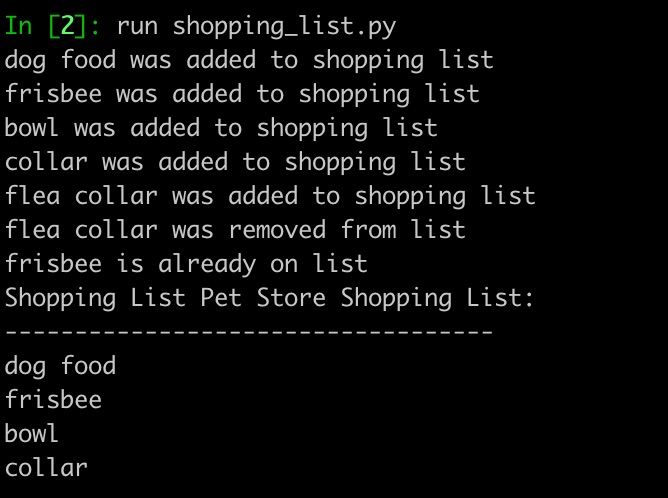
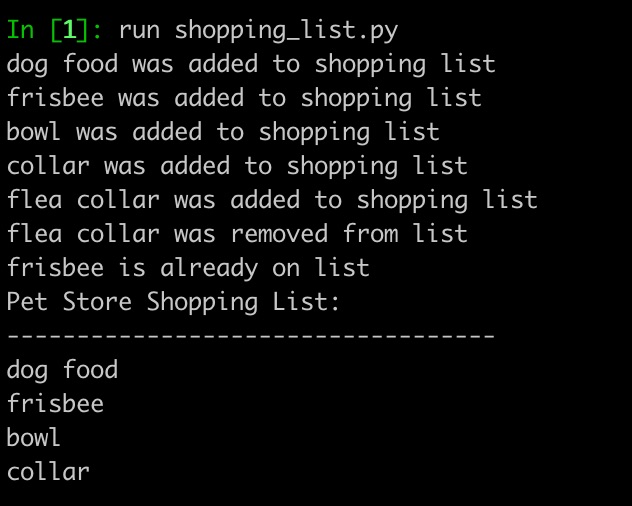
fix: code error correction
new screenshot

Changed region(s): [[0.0, 0.0301, 0.8418, 0.4819], [0.0, 0.512, 0.7816, 0.6325], [0.0, 0.6627, 0.7816, 0.9639]]

diff --git a/Task_1.5/Task1.5_Practice1/shopping_list.py b/Task_1.5/Task1.5_Practice1/shopping_list.py
@@ -20,7 +20,7 @@ class ShoppingList(object):
       print(item, 'is not in shopping list')
 
   def view_list(self):
-    print('Shopping List', self.list_name + ':')
+    print(self.list_name + ':')
     print('-----------------------------------')
     item = self.item
     for item in self.shopping_list:
